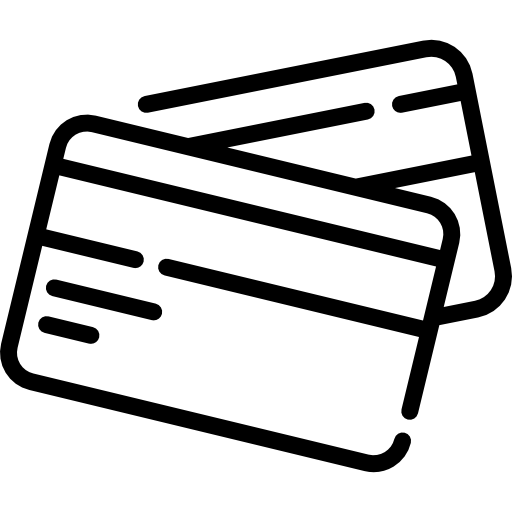
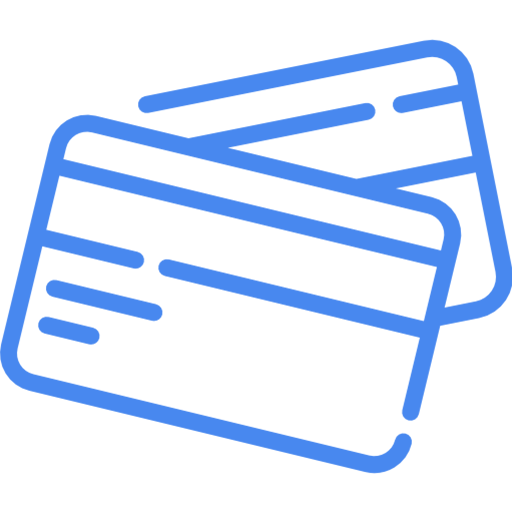
Correção dos icones e adicionado inserir de veículo

Changed region(s): [[0.0, 0.0625, 1.0, 0.9375]]

diff --git a/src/components/FormVeiculo.js b/src/components/FormVeiculo.js
@@ -7,47 +7,67 @@ import {
     TextInput,
     TouchableHighlight,
 } from 'react-native';
+import _ from 'lodash';
 import { defaultStyles } from '../styles';
 import cores from '../styles/cores';
+import { connect } from 'react-redux';
+import { adicionarVeiculo, modificaId, modificaPlaca, modificaApelido } from '../actions/FormVeiculoActions';
 
-class Veiculo  extends Component {
+class FormVeiculo  extends Component {
 
+    _salvarVeiculo(){
+        const {id, placa, apelido} = this.props;
+
+        this.props.adicionarVeiculo(id, placa, apelido);
+    }
+
+    _renderErro(inputConsultado){
+        const erro = _.find(this.props.erro, (mensagem, input) => input == inputConsultado);
+        if(!_.isEmpty(erro))
+        {
+            const mensagem = _.first(erro);
+            return (<Text style={styles.erro}>{mensagem}</Text>);
+        }
+    }
     render(){
         return (
             <View style={styles.tela}>
-                    <View style={styles.imagemContainer}>
-                        <Image 
-                            style={styles.imagem}
-                            source={require('../imgs/icone_placa.png')} 
-                        />
-                    </View>
-                    <View style={styles.formContainer}>
-                        <TextInput
-                            placeholder="Placa"
-                            style={styles.input}
-                            //value={this.props.veiculo.placa.toUpperCase()}
-                            underlineColorAndroid={cores.cinza}
-                            editable={false}
-                        />
-                        <TextInput
-                            placeholder="Apelido"
-                            style={styles.input}
-                            //value={this.props.veiculo.descricao}
-                            underlineColorAndroid={cores.cinza}
-                            editable={false}
-                        />
-                    </View>
-                    <View style={styles.botoesContainer}>
-                        <TouchableHighlight
-                            onPress={() => false}
-                            style={styles.botaoVerde}
-                            underlayColor="rgba(0, 0, 0, 0.05)"
-                        >
-                            <Text style={styles.botaoVerdeText}>
-                                Salvar
-                            </Text>
-                        </TouchableHighlight>
-                    </View>
+                <View style={styles.imagemContainer}>
+                    <Image 
+                        style={styles.imagem}
+                        source={require('../imgs/icone_placa.png')} 
+                    />
+                </View>
+                <View style={styles.formContainer}>
+                    <TextInput
+                        placeholder="Placa"
+                        style={styles.input}
+                        onChangeText={ (placa)=> this.props.modificaPlaca(placa) }
+                        value={this.props.placa}
+                        underlineColorAndroid={cores.cinza}
+                    />
+                    { this._renderErro('placa')}
+                    
+                    <TextInput
+                        placeholder="Apelido"
+                        style={styles.input}
+                        onChangeText={ (apelido)=> this.props.modificaApelido(apelido) }
+                        value={this.props.apelido}
+                        underlineColorAndroid={cores.cinza}
+                    />
+                    { this._renderErro('descricao')}
+                </View>
+                <View style={styles.botoesContainer}>
+                    <TouchableHighlight
+                        onPress={() => this._salvarVeiculo() }
+                        style={styles.botaoVerde}
+                        underlayColor="rgba(0, 0, 0, 0.05)"
+                    >
+                        <Text style={styles.botaoVerdeText}>
+                            Salvar
+                        </Text>
+                    </TouchableHighlight>
+                </View>
             </View>
         );
     }
@@ -70,6 +90,11 @@ const styles = StyleSheet.create({
     formContainer: {
         //flex: 1
     },
+    erro: {
+        fontSize: 14,
+        color: 'red',
+        marginBottom: 5,
+    },
     botoesContainer: {
         justifyContent: 'center',
         alignItems: 'center',
@@ -83,4 +108,14 @@ const styles = StyleSheet.create({
     },
 });
 
-export default Veiculo;
+const mapStateToProps = state => {
+    return {
+        id: state.FormVeiculoReducer.id,
+        placa: state.FormVeiculoReducer.placa,
+        apelido: state.FormVeiculoReducer.apelido,
+        salvandoVeiculo: state.FormVeiculoReducer.salvandoVeiculo,
+        erro: state.FormVeiculoReducer.erro,
+    }
+};
+
+export default connect(mapStateToProps, { adicionarVeiculo, modificaPlaca, modificaApelido })(FormVeiculo);

diff --git a/src/actions/FormVeiculoActions.js b/src/actions/FormVeiculoActions.js
@@ -1,0 +1,71 @@
+import API  from '../Api';
+import { 
+    MODIFICA_VEICULO_ID,
+    MODIFICA_VEICULO_PLACA,
+    MODIFICA_VEICULO_APELIDO,
+    SALVAR_VEICULO_EM_ANDAMENTO,
+    SALVAR_VEICULO_SUCESSO,
+    SALVAR_VEICULO_ERRO,
+} from './types';
+import { carregarVeiculos } from './VeiculosActions';
+import NavigationService from '../NavigationService';
+
+//to-do mudar para salvar e caso o id seja diferente de 0 edita, caso contrário adiciona
+export const adicionarVeiculo = (id, placa,apelido) => {
+
+    return async dispatch => {
+        dispatch({ type: SALVAR_VEICULO_EM_ANDAMENTO });
+        try
+        {
+            const retorno = await API.post('veiculo/novo',{
+                veiculo: {
+                    placa,
+                    descricao: apelido
+                }
+            });
+            adicionarVeiculoSucesso(retorno.data, dispatch);
+        }
+        catch(erro)
+        {
+            console.log(erro.data);
+            adicionarVeiculoErro(erro.data.errors, dispatch);
+        }
+    }
+}
+export const modificaId = (id) => {
+    return {
+        type: MODIFICA_VEICULO_ID,
+        payload: id
+    }
+}
+
+export const modificaPlaca = (placa) => {
+    return {
+        type: MODIFICA_VEICULO_PLACA,
+        payload: placa
+    }
+}
+
+export const modificaApelido = (apelido) => {
+    return {
+        type: MODIFICA_VEICULO_APELIDO,
+        payload: apelido
+    }
+}
+
+
+export const adicionarVeiculoSucesso = (veiculos, dispatch) => {
+    dispatch({
+        type: SALVAR_VEICULO_SUCESSO,
+        payload: veiculos
+    });
+    NavigationService.navigate('PerfilVeiculo');
+    dispatch(carregarVeiculos());
+}
+
+export const adicionarVeiculoErro = (erro, dispatch) => {
+    dispatch({
+        type: SALVAR_VEICULO_ERRO,
+        payload: erro
+    });
+}

diff --git a/src/components/PerfilVeiculo.js b/src/components/PerfilVeiculo.js
@@ -55,11 +55,13 @@ class PerfilVeiculo extends Component {
 
     render() {
         return (
-            <ScrollView  style={styles.tela}>
-                <ListView
-                    renderRow={this.renderRow}
-                    dataSource={this.dataSource}
-                    />
+            <View style={styles.tela}>
+                <ScrollView  style={{flexGrow: 1}}>
+                    <ListView
+                        renderRow={this.renderRow}
+                        dataSource={this.dataSource}
+                        />
+                </ScrollView >
                 <View style={styles.botoesContainer}>
                     <TouchableHighlight
                         onPress={() => this.props.navigation.navigate('FormVeiculo')}
@@ -71,7 +73,7 @@ class PerfilVeiculo extends Component {
                         </Text>
                     </TouchableHighlight>
                 </View>
-            </ScrollView >
+            </View>
         );
     }
   }
@@ -87,7 +89,7 @@ const styles = StyleSheet.create({
     },
     botaoAzul: {
         ...defaultStyles.botaoAzul,
-        marginBottom: 25,
+        marginTop: 15,
     },
     botaoAzulText: {
         ...defaultStyles.botaoAzulText,

diff --git a/src/reducers/FormVeiculoReducer.js b/src/reducers/FormVeiculoReducer.js
@@ -1,0 +1,36 @@
+import { 
+    MODIFICA_VEICULO_ID,
+    MODIFICA_VEICULO_PLACA,
+    MODIFICA_VEICULO_APELIDO,
+    SALVAR_VEICULO_EM_ANDAMENTO,
+    SALVAR_VEICULO_SUCESSO,
+    SALVAR_VEICULO_ERRO,
+} from '../actions/types';
+
+const INITIAL_STATE = {
+    id: 0,
+    placa: '',
+    apelido: '',
+    salvandoVeiculo: false,
+    erro: null
+}
+
+export default (state = INITIAL_STATE, action) => {
+    switch(action.type) {
+        case MODIFICA_VEICULO_ID:
+            return { ...state, id: action.payload }
+        case MODIFICA_VEICULO_PLACA:
+            return { ...state, placa: action.payload }
+        case MODIFICA_VEICULO_APELIDO:
+            return { ...state, apelido: action.payload }
+        case SALVAR_VEICULO_EM_ANDAMENTO:
+            return { ...state, salvandoVeiculo: true }
+        case SALVAR_VEICULO_SUCESSO:
+            return { ...state, ...INITIAL_STATE }
+        case SALVAR_VEICULO_ERRO:
+            return { ...state, erro: action.payload , arregandoVeiculos: false }
+        
+        default:
+            return state;
+    }    
+}

diff --git a/src/actions/types.js b/src/actions/types.js
@@ -20,3 +20,11 @@ export const  CARREGAR_CARTAO_ERRO = "carregar_cartao_erro";
 export const  CARREGAR_VEICULO_EM_ANDAMENTO = "carregar_veiculo_em_andamento";
 export const  CARREGAR_VEICULO_SUCESSO = "carregar_veiculo_sucesso";
 export const  CARREGAR_VEICULO_ERRO = "carregar_veiculo_erro";
+
+// formVeiculo
+export const  MODIFICA_VEICULO_ID = "modifica_veiculo_id";
+export const  MODIFICA_VEICULO_PLACA = "modifica_veiculo_placa";
+export const  MODIFICA_VEICULO_APELIDO = "modifica_veiculo_apelido";
+export const  SALVAR_VEICULO_EM_ANDAMENTO = "salvar_veiculo_em_andamento";
+export const  SALVAR_VEICULO_SUCESSO = "salvar_veiculo_sucesso";
+export const  SALVAR_VEICULO_ERRO = "salvar_veiculo_erro";

diff --git a/src/reducers/index.js b/src/reducers/index.js
@@ -3,11 +3,13 @@ import AppReducer from './AppReducer';
 import AutenticacaoReducer from './AutenticacaoReducer';
 import CartoesReducer from './CartoesReducer';
 import VeiculosReducer from './VeiculosReducer';
+import FormVeiculoReducer from './FormVeiculoReducer';
 
 
 export default combineReducers({
     AppReducer,
     AutenticacaoReducer,
     CartoesReducer,
-    VeiculosReducer
+    VeiculosReducer,
+    FormVeiculoReducer
 });

diff --git a/src/Api.js b/src/Api.js
@@ -18,7 +18,7 @@ Api.interceptors.response.use((response) => {
     if (error.response.status === 401) {
         console.log('Não autorizado. Deslogando...');
         NavigationService.navigate('Login');
-    }else {
+    }else if (error.response.status !== 400){
         Alert.alert(
             'Aviso',
             'Um problema no servidor ocorreu, tente novamente.',

diff --git a/src/actions/VeiculosActions.js b/src/actions/VeiculosActions.js
@@ -8,6 +8,7 @@ import {
 export const carregarVeiculos = () => {
 
     return async dispatch => {
+        console.log('passou aqui');
         dispatch({ type: CARREGAR_VEICULO_EM_ANDAMENTO });
         try
         {

diff --git a/src/styles/cores.js b/src/styles/cores.js
@@ -1,6 +1,6 @@
 const cores = {
 
-    azul: '#3075e5',
+    azul: '#4888ef',
 
     cinza: '#bcbcbc',
     verde: '#12cc67',
